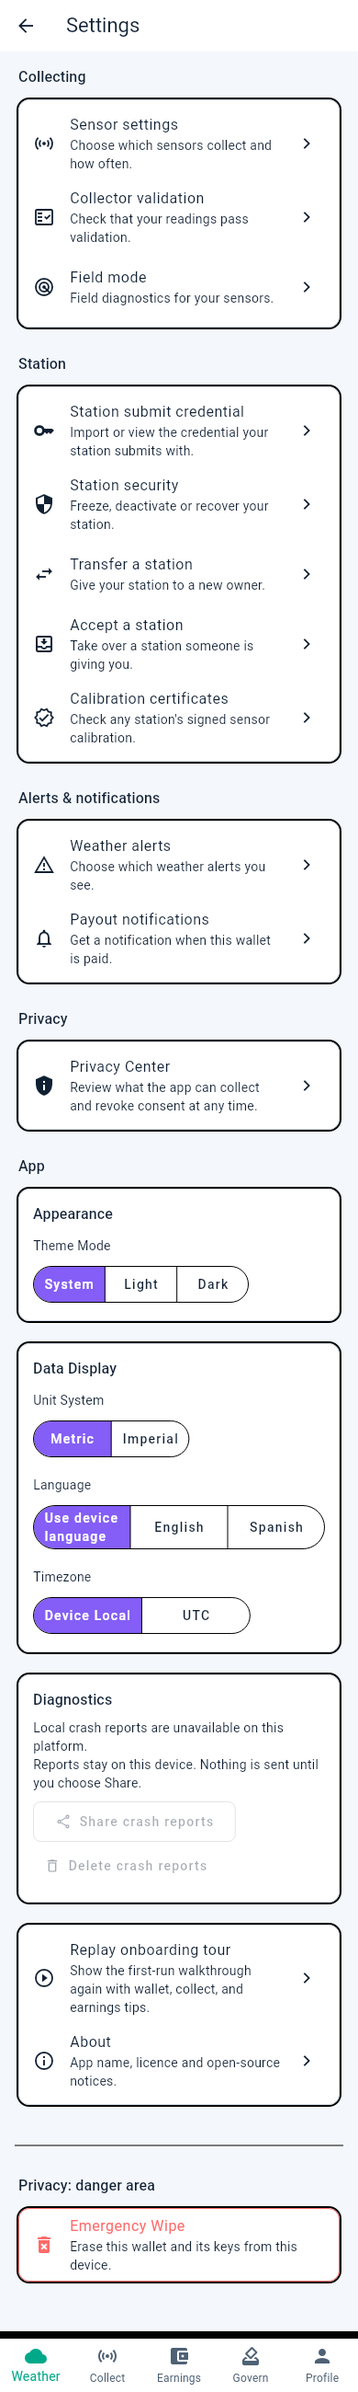
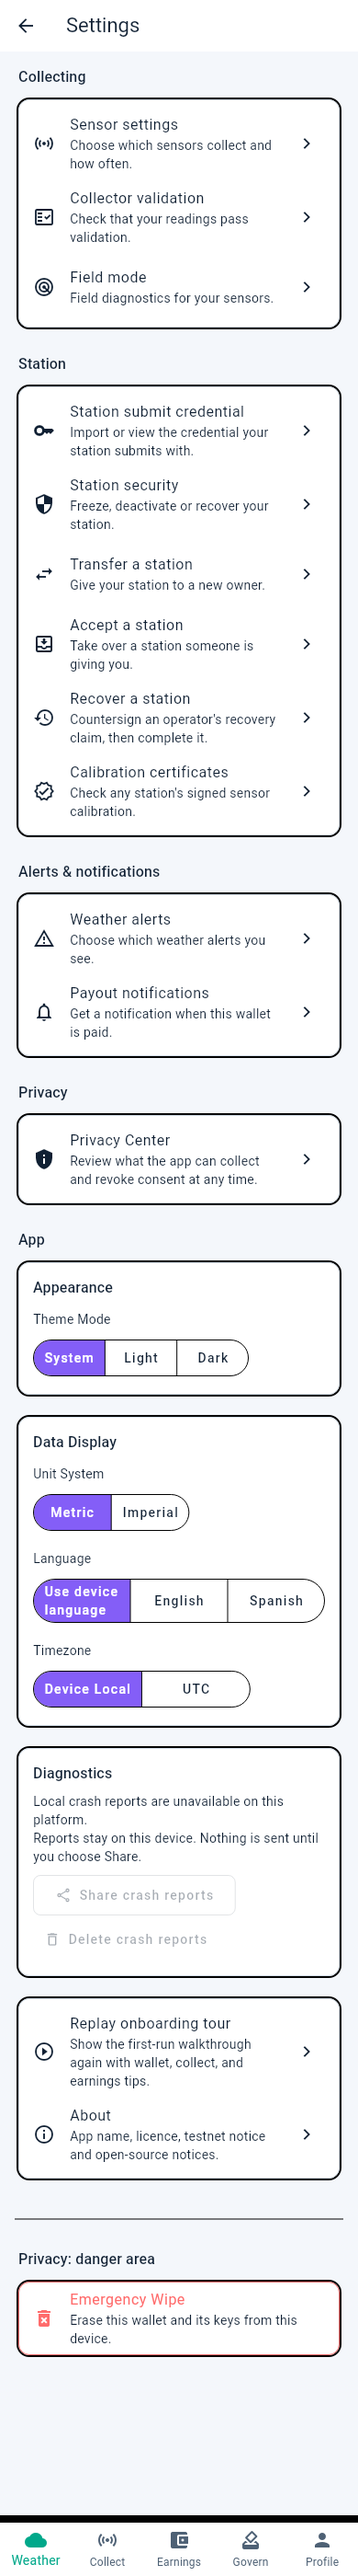
feat(settings): add Recover a station to Settings (#45)
The /collect/station-recovery route existed but nothing in the app opened it, so
a claimant couldn't reach the screen. Settings > Station now has an entry for it.

Claude-Session: https://claude.ai/code/session_01HDDj5tGtLfr92fDzAKSzPs

diff --git a/lib/features/settings/presentation/screens/app_settings_screen.dart b/lib/features/settings/presentation/screens/app_settings_screen.dart
@@ -79,6 +79,12 @@ class AppSettingsScreen extends ConsumerWidget {
                 () => context.push('/collect/station-accept'),
               ),
               _entry(
+                Icons.restore,
+                'Recover a station',
+                "Countersign an operator's recovery claim, then complete it.",
+                () => context.push('/collect/station-recovery'),
+              ),
+              _entry(
                 Icons.verified_outlined,
                 'Calibration certificates',
                 "Check any station's signed sensor calibration.",

diff --git a/test/features/settings/settings_home_screenshots_test.dart b/test/features/settings/settings_home_screenshots_test.dart
@@ -16,7 +16,7 @@ import '../../test_helpers/screenshot_fonts.dart';
 /// test_helpers/screenshot_fonts.dart. Tab content is test fixture data.
 void main() {
   const screens = <String, (String, Size, Size)>{
-    'settings': ('/profile/settings', Size(390, 2600), Size(1280, 2600)),
+    'settings': ('/profile/settings', Size(390, 2800), Size(1280, 2800)),
     'weather': ('/weather', Size(390, 844), Size(1280, 800)),
     'collect': ('/collect', Size(390, 844), Size(1280, 800)),
     'earnings': ('/wallet', Size(390, 844), Size(1280, 800)),

diff --git a/test/features/settings/presentation/screens/app_settings_screen_test.dart b/test/features/settings/presentation/screens/app_settings_screen_test.dart
@@ -27,6 +27,7 @@ const _destinations = <String, String>{
   'Station security': '/collect/station-security',
   'Transfer a station': '/collect/station-transfer',
   'Accept a station': '/collect/station-accept',
+  'Recover a station': '/collect/station-recovery',
   'Collector validation': '/collect/validation',
   'Field mode': '/collect/field-mode',
 };
